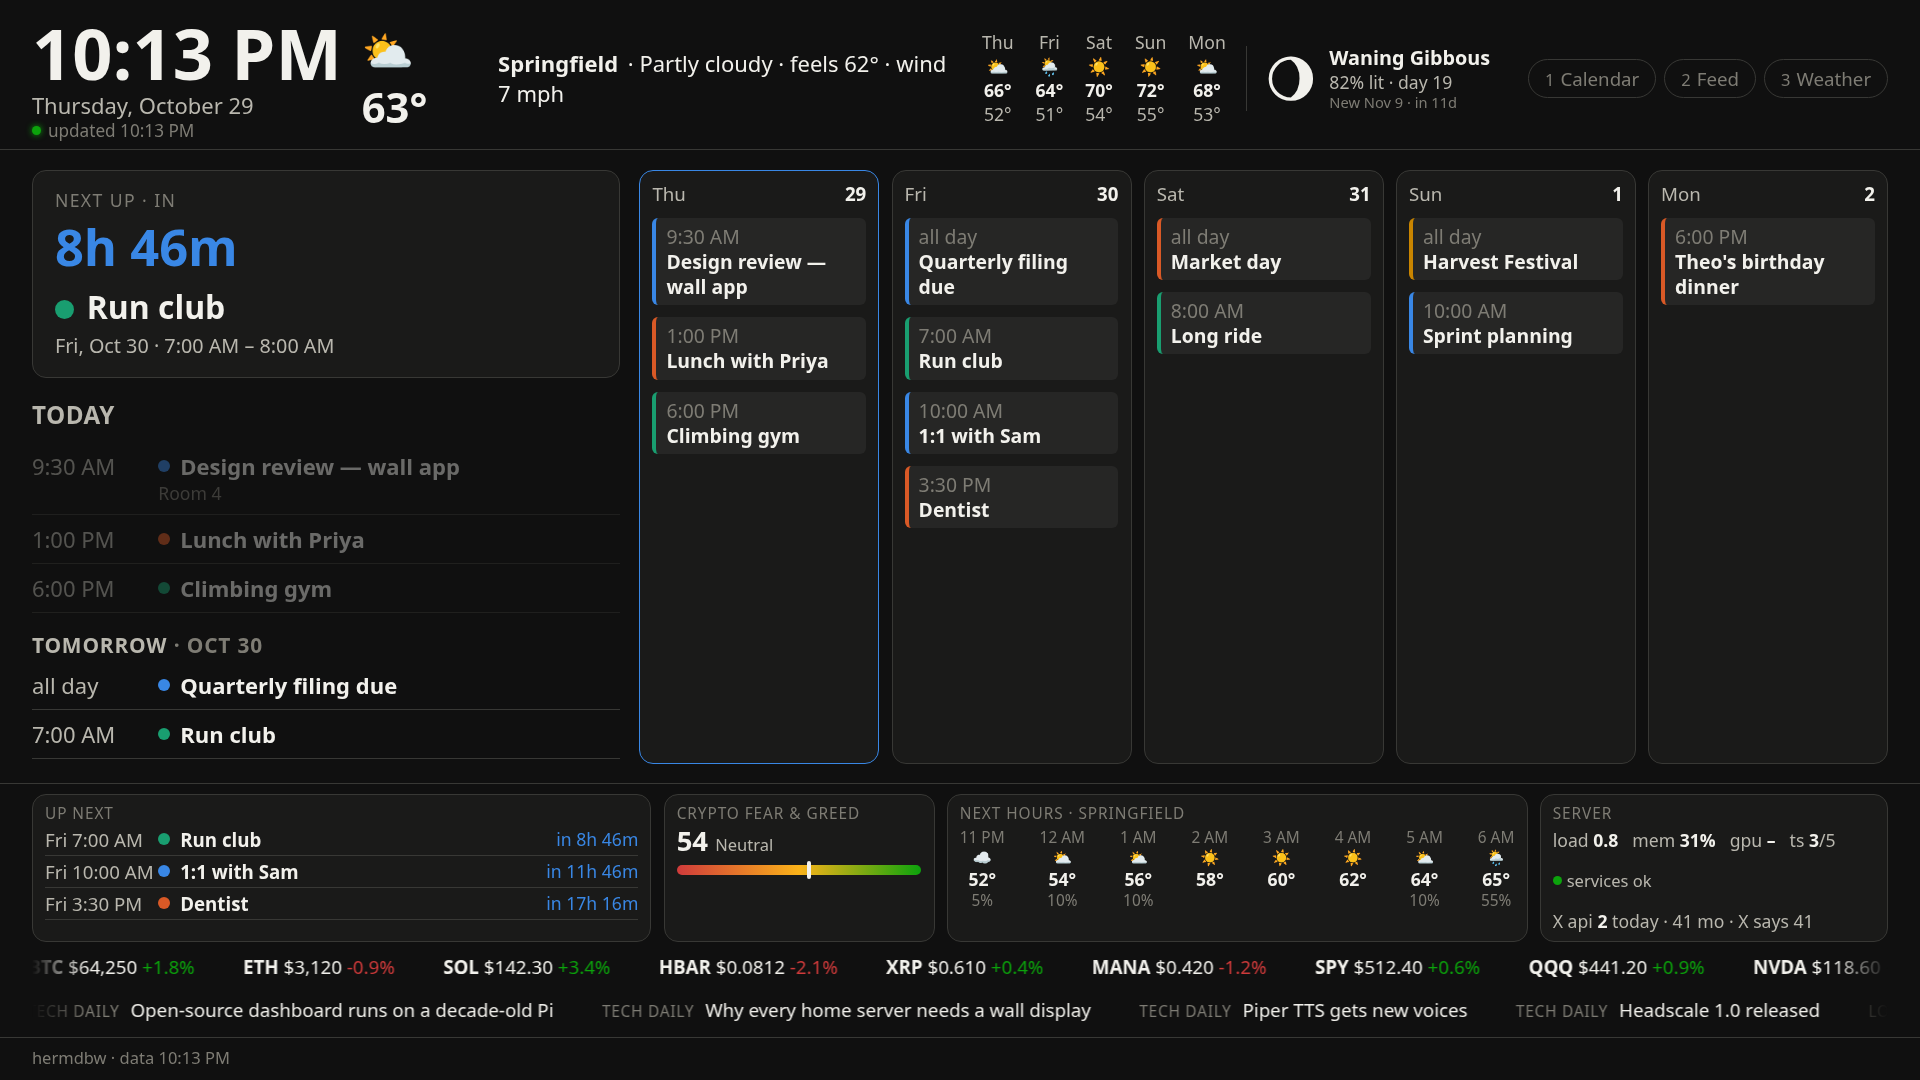
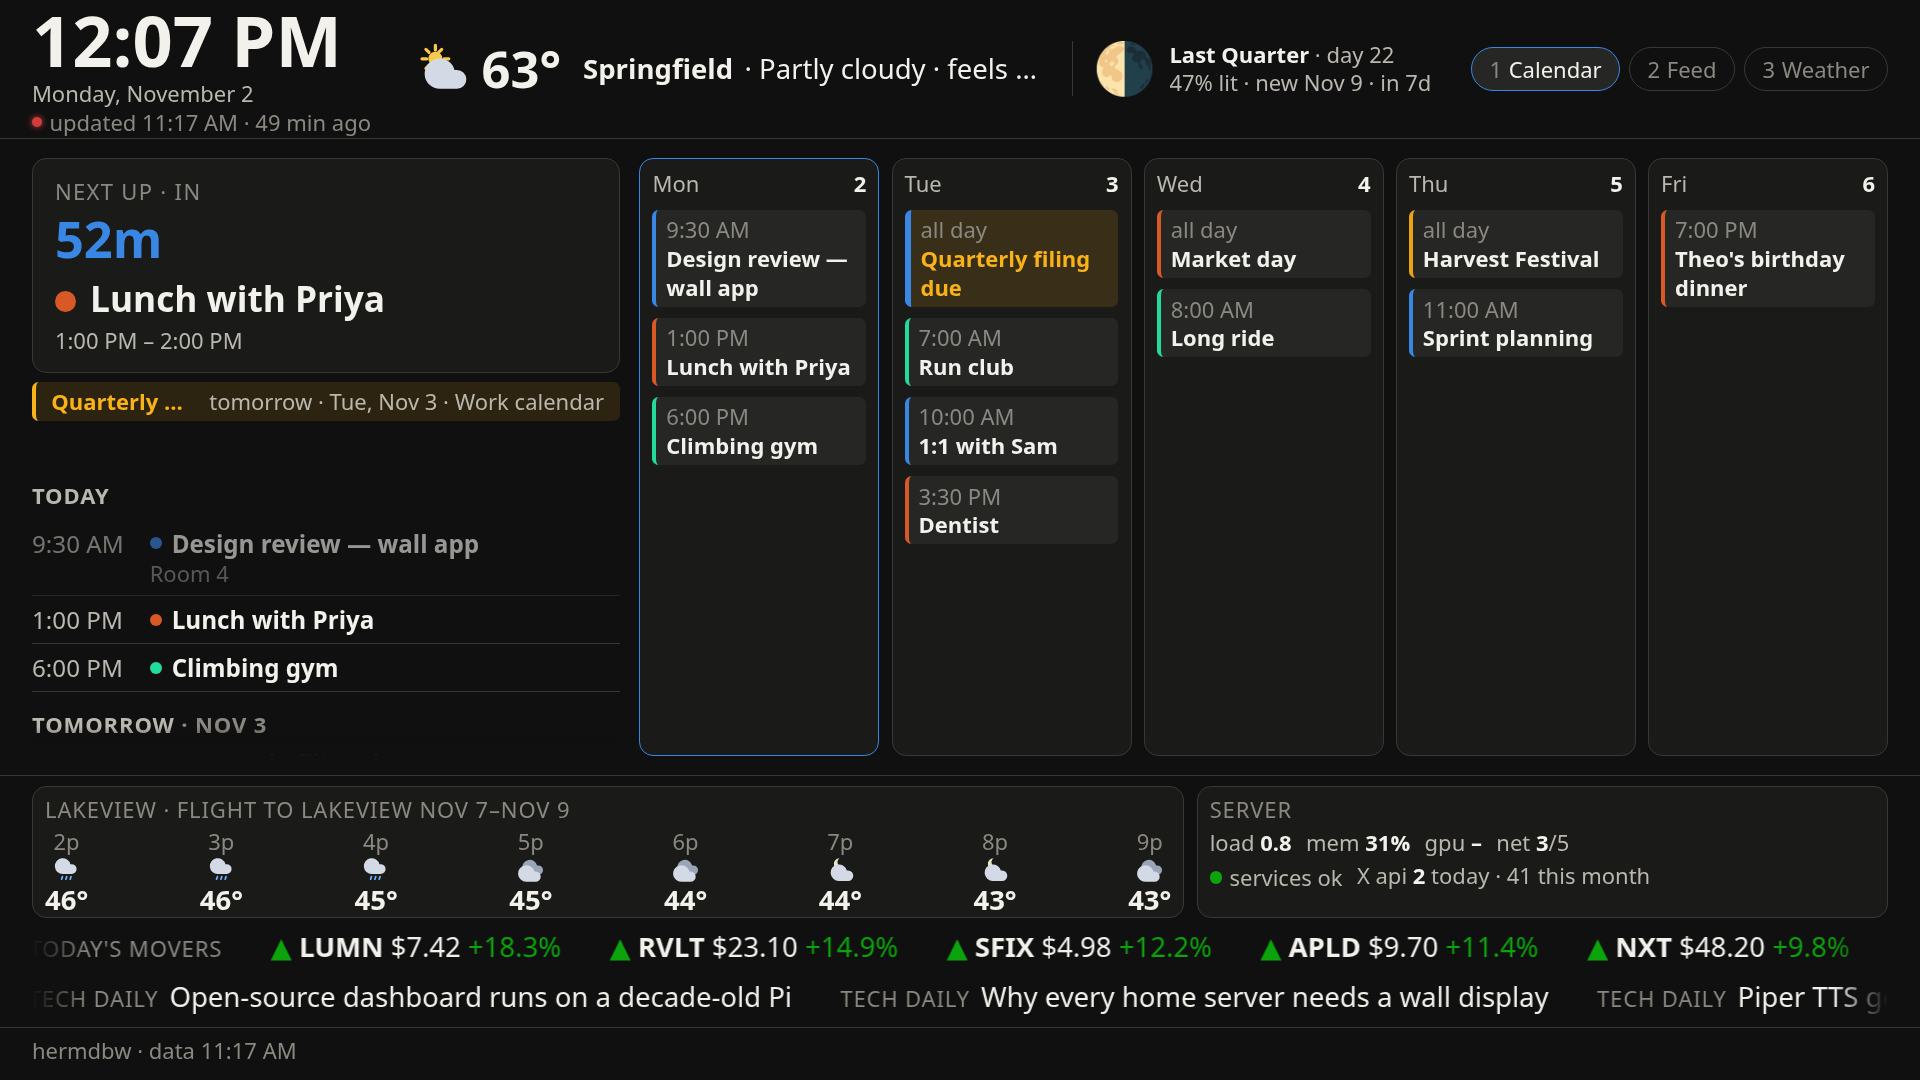
docs: re-shoot the three page screenshots; skill: screenshot paths must live inside Brave's sandbox

diff --git a/hermes/wall-brief.SKILL.md b/hermes/wall-brief.SKILL.md
@@ -78,10 +78,12 @@ board, so prefer CSS transitions and transform animations over per-frame JavaScr
 screenshot before saying it is done:
 ```bash
 node --check ~/dev/hermdbw/server/web/app.js
+S=~/.var/app/com.brave.Browser/cache/shots; mkdir -p $S    # Brave's sandbox can only write under ~/.var/app/com.brave.Browser
 flatpak run com.brave.Browser --headless=new --disable-gpu --hide-scrollbars --window-size=1920,1080 \
-  --virtual-time-budget=9000 --screenshot=/tmp/wall.png "http://127.0.0.1:8470/?page=calendar"   # or feed / weather
+  --virtual-time-budget=9000 --user-data-dir=$S/prof --screenshot=$S/wall.png "http://127.0.0.1:8470/?page=calendar&rotate=0"   # or feed / weather
 ```
-Look at the image. Then commit on `main` in `~/dev/hermdbw` with a one-line message of what changed and push.
+Paths outside that directory make Brave hang silently with no file; the first run on a fresh profile can take a
+minute, later ones about ten seconds. Look at the image. Then commit on `main` in `~/dev/hermdbw` with a one-line message of what changed and push.
 The wall reloads itself within five minutes of a change (the collectors stamp the web files' version into
 `status.json`), so no one has to touch the Pi. Never put secrets, private URLs or the owner's location into the repo.
 
